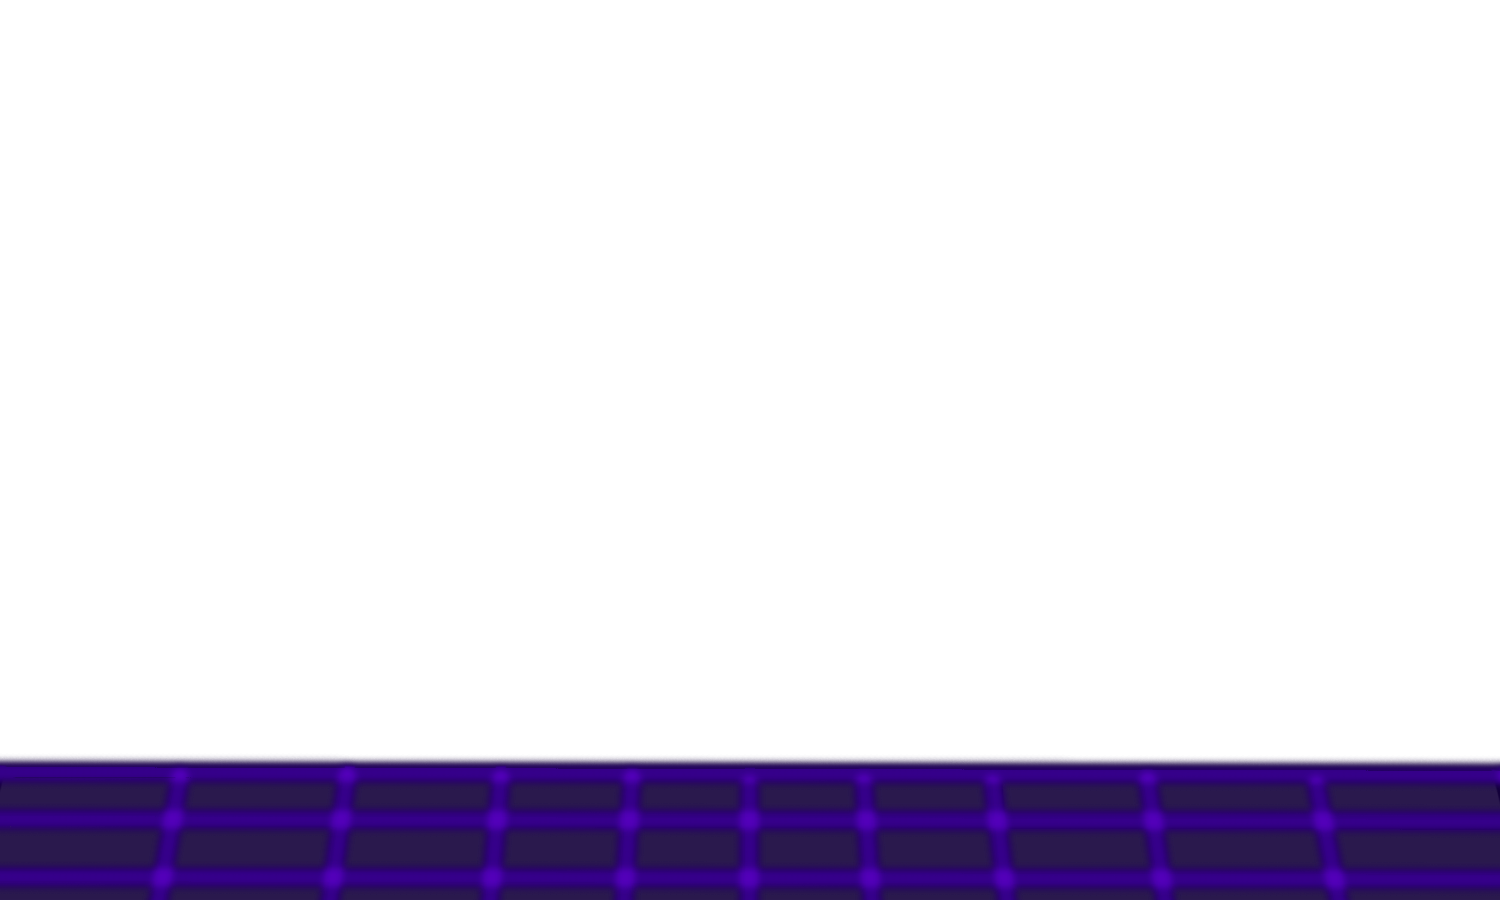
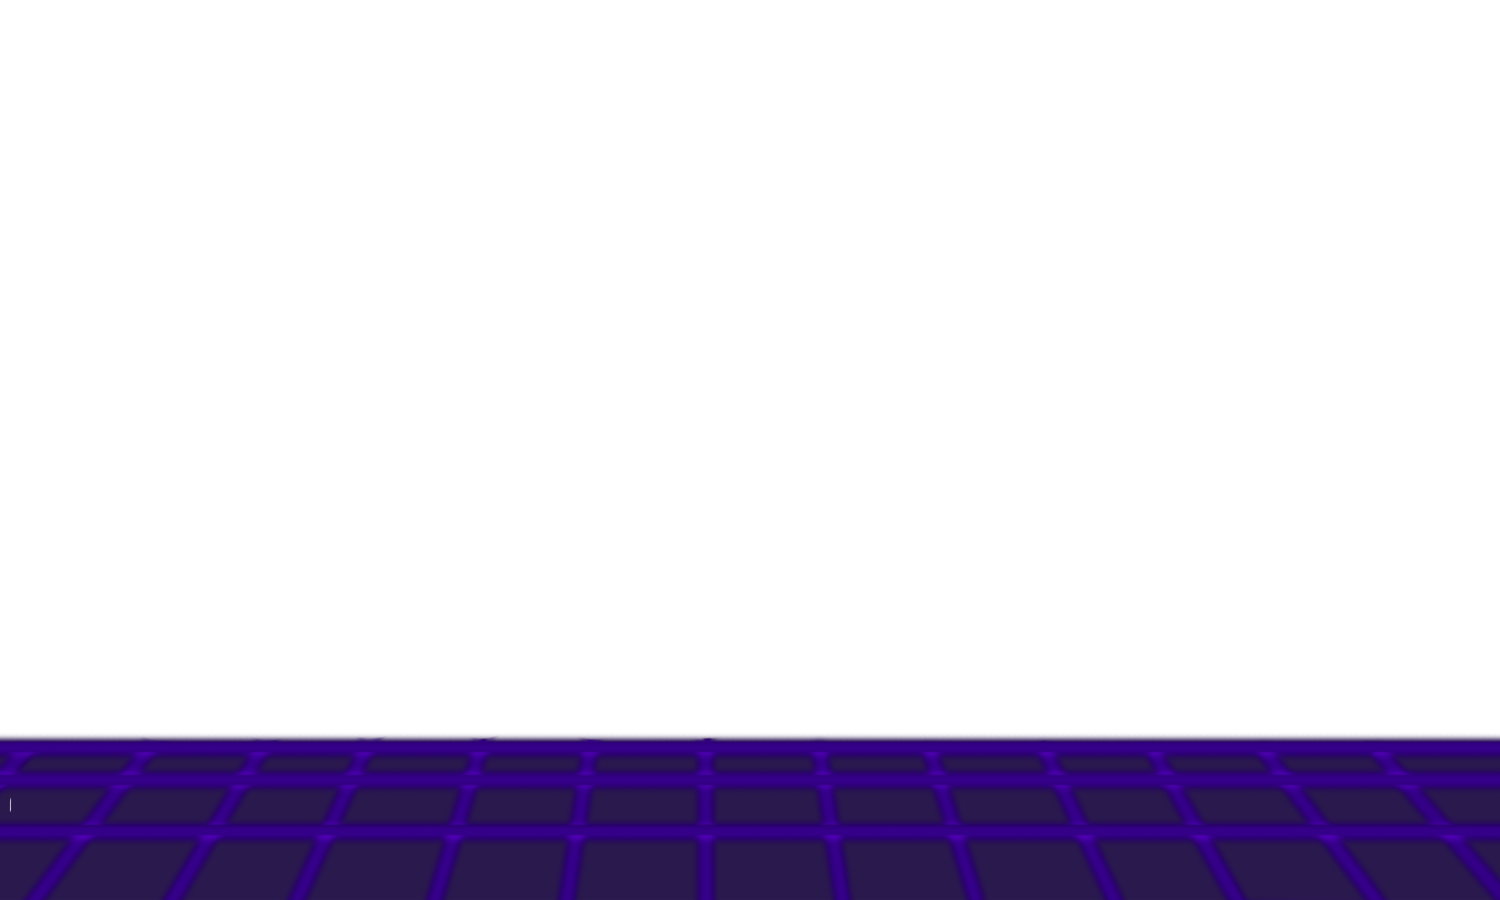
piso 4
el suelo se mueve hacia la izquierda en bucle, más rápido que el fondo (efecto parallax)

Changed region(s): [[0.0, 0.8089, 1.0, 1.0]]

diff --git a/level.js b/level.js
@@ -57,15 +57,19 @@ botones.forEach(boton => {
 let fondoX = 0;
 let velocidadFondo = 1; // píxeles por frame
 
+//para animacion del piso
+let pisoX = 0;
+let velocidadPiso = 5; //2
+
+
 function moverFondo() {
   //fondo solo se mueve cuando el juego no está pausado
   if (!juegoPausado) {
     fondoX -= velocidadFondo;
-  //  document.body.style.backgroundPosition = `${fondoX}px 0`;
+    pisoX -= velocidadPiso;
 
-  //para la imagen de fondo
-  document.getElementById("fondo").style.backgroundPosition = `${fondoX}px 0`;
-
+    document.getElementById("fondo").style.backgroundPosition = `${fondoX}px 0`;//para la imagen de fondo
+    document.getElementById("piso").style.backgroundPosition = `${pisoX}px 0`;//para la imagen de piso
   }
   requestAnimationFrame(moverFondo);//bucle se ejecuta con esto
 }

diff --git a/level.css b/level.css
@@ -146,3 +146,16 @@ html, body {
   font-family: 'Orbitron', sans-serif;
   box-shadow: 0 0 10px #00ffe0;
 }
+
+/*para imagen del piso */
+#piso {
+  position: fixed;
+  bottom: 0;
+  left: 0;
+  width: 200%;
+  height: 100%; /* ajusta según el alto real de piso2.png */
+  background: url('piso4.png') repeat-x;
+  background-size: auto 100%;
+/*  background-size: contain;*/
+  z-index: 0; /* detrás del HUD pero encima del fondo */
+}

diff --git a/nivel_1.html b/nivel_1.html
@@ -11,6 +11,8 @@
 
     <!-- contenedor para la imagen de fondo, es fija, se mueve con el js-->
 <div id="fondo"></div>
+<div id="piso"></div>
+
 
    <!-- Contador para distancia en la esquina superior izquierda -->
 <div id="contador">0</div>
